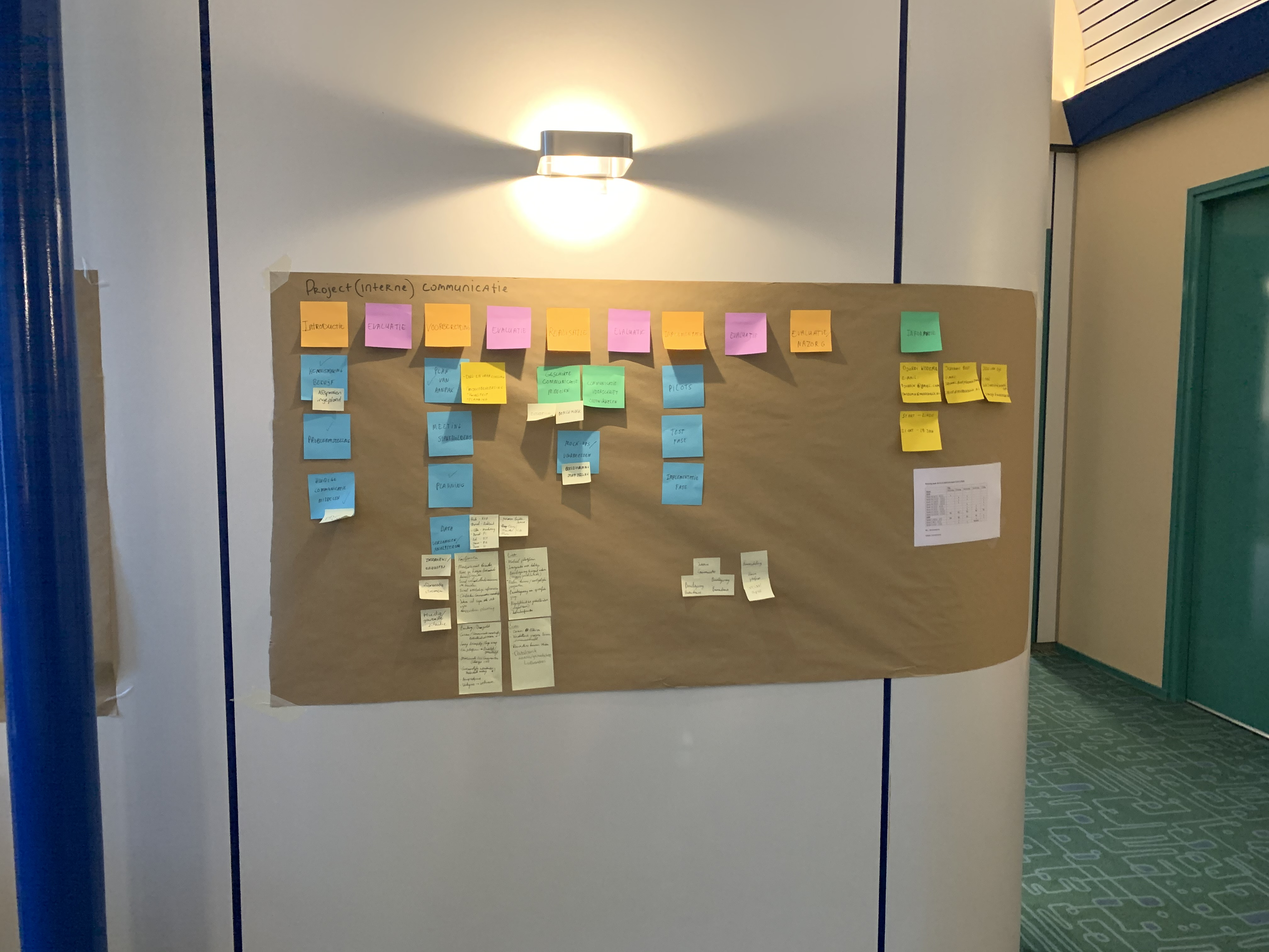
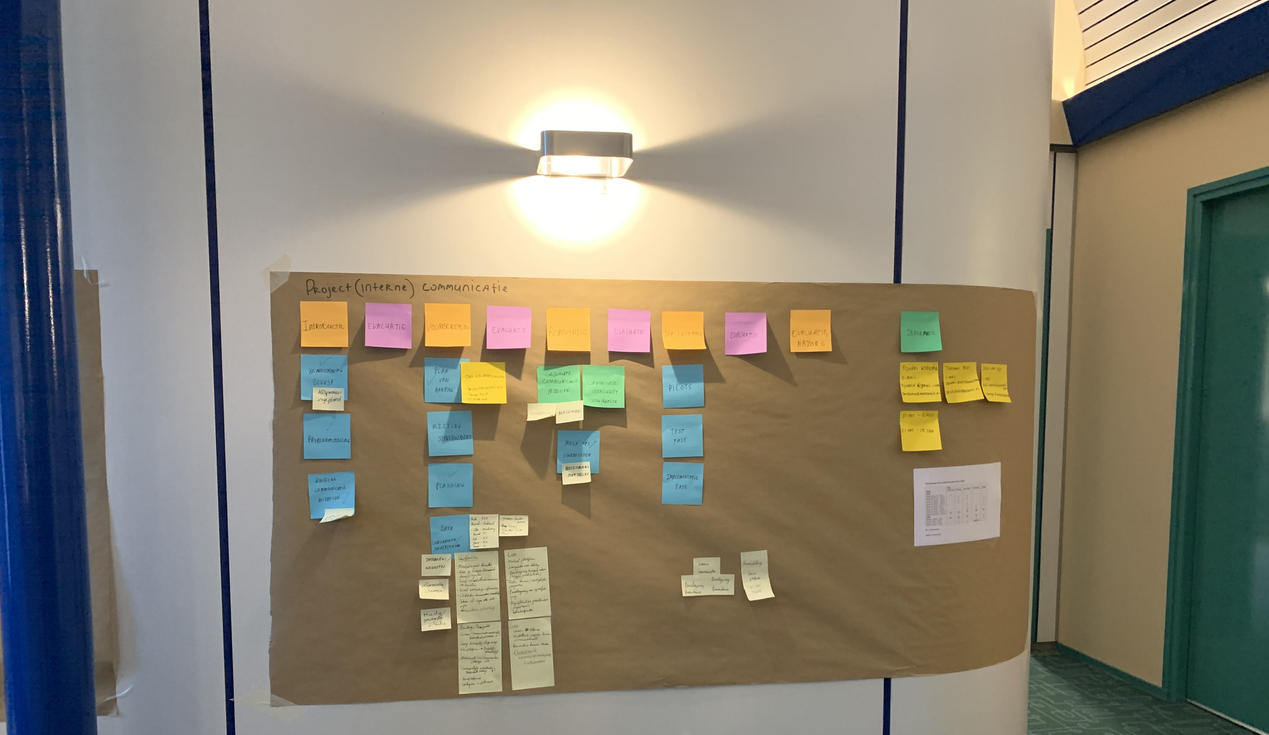
Update

diff --git a/index.html b/index.html
@@ -947,22 +947,9 @@ function drawWeather( d ) {
 
       <p class="w3-justify">Heb je door het lezen van deze korte inleiding meer interesse gekregen in mijn project? Een link naar mijn volledige onderzoek vind je <b><a href="https://docs.google.com/document/d/1eV-bDgcoICFz3S91sDcyB4WsVazamT8eQR77_Mw3KnA/edit?usp=sharing">hier.</a></b>  </p>
 
-
-
-    <div class="w3-row w3-padding-32">
-      <div class="w3-third">
-        <p>Brown paper - werkwijze Modderkolk</p>
-        <img src="Werkwijze modderkolk.jpg" class="w3-round w3-margin-bottom"  style="width:100%">
-      </div>
-      <div class="w3-third">
-        <p>Name</p>
-        <img src="Afbeeldingen/IMG_4234.jpg" class="w3-round w3-margin-bottom"  style="width:100%">
-      </div>
-      <div class="w3-third">
-        <p>Name</p>
-        <img src="Afbeeldingen/IMG_4235.jpg" class="w3-round"  style="width:100%">
-      </div>
-    </div>
+      <p class="w3-justify">Om de voortgang en kwaliteit van ons project te bewaken is er gedurende het project gewerkt met een brown paper. Dit brown paper werd op wekelijkse basis besproken en geëvalueerd met Nick de Beijer, verbeterspecialist binnen Modderkolk. Dit heeft ons geholpen te allen tijde de kwaliteit te waarborgen en planmatig te werk te gaan.</p>
+      <img src="Werkwijze modderkolk.jpg" class="w3-round w3-margin-bottom"  style="width:100%">
+   
   </div>
 
   <!-- COMPETENTIES -->
